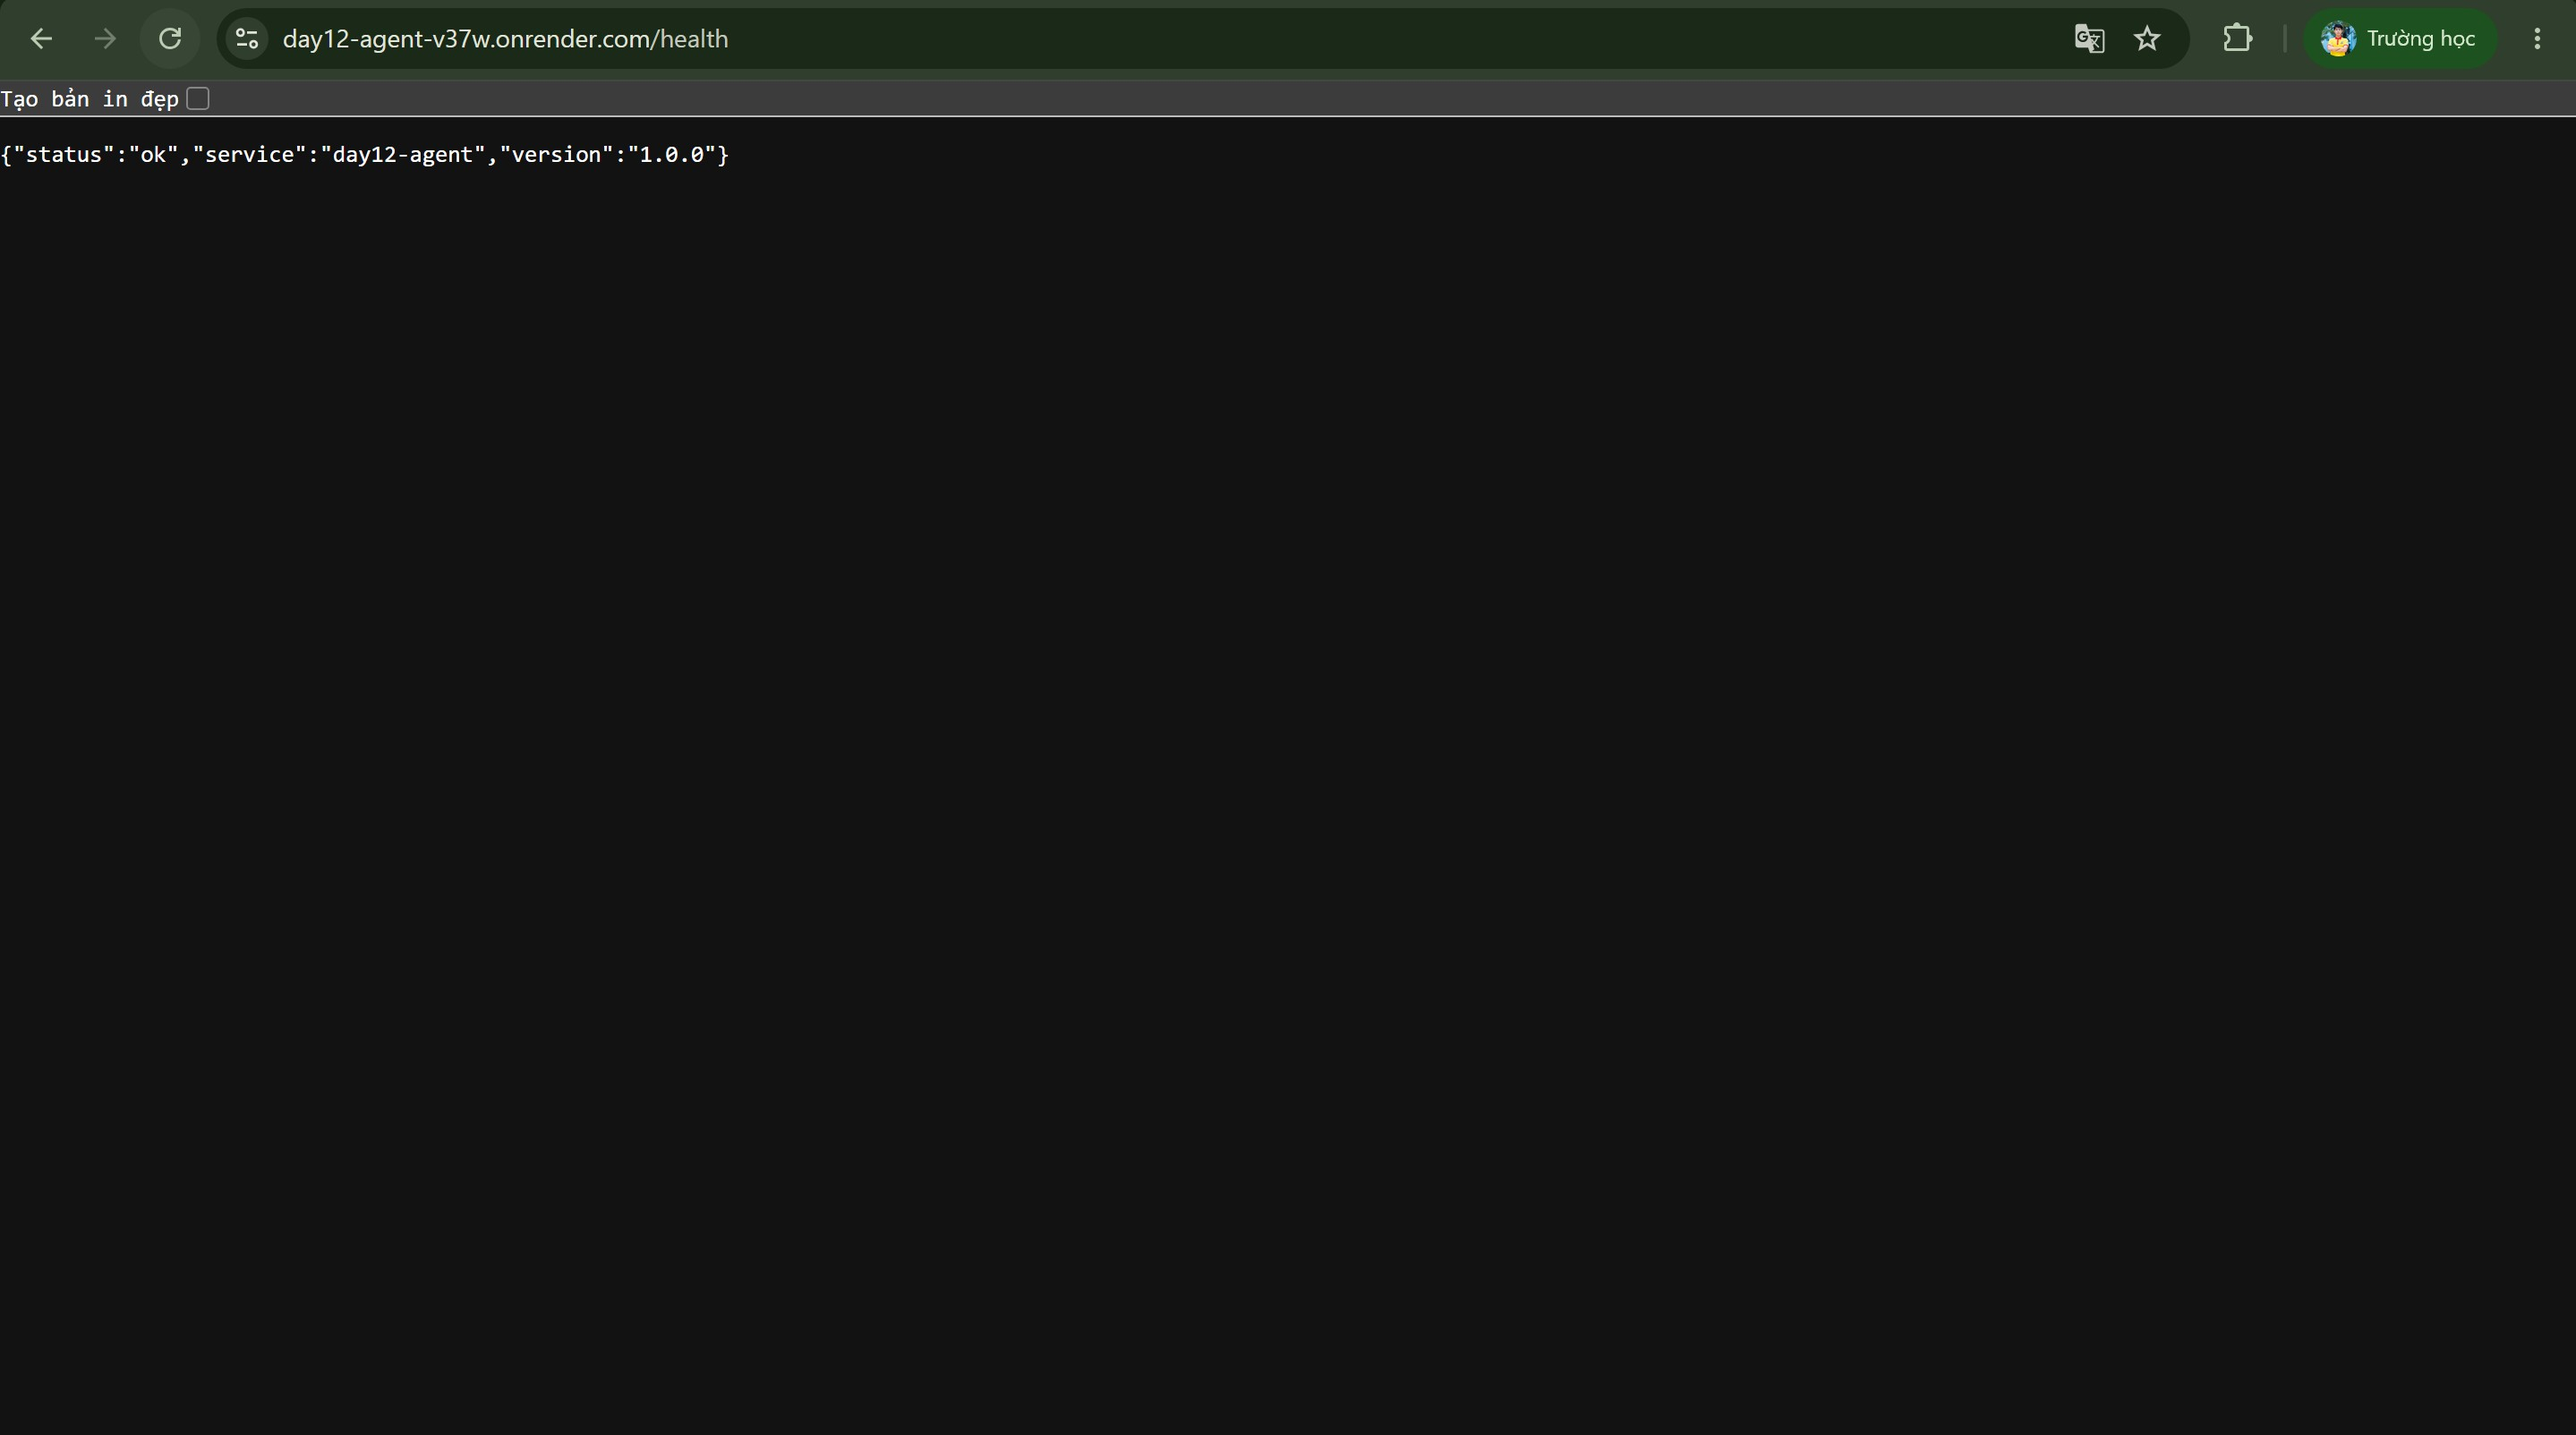
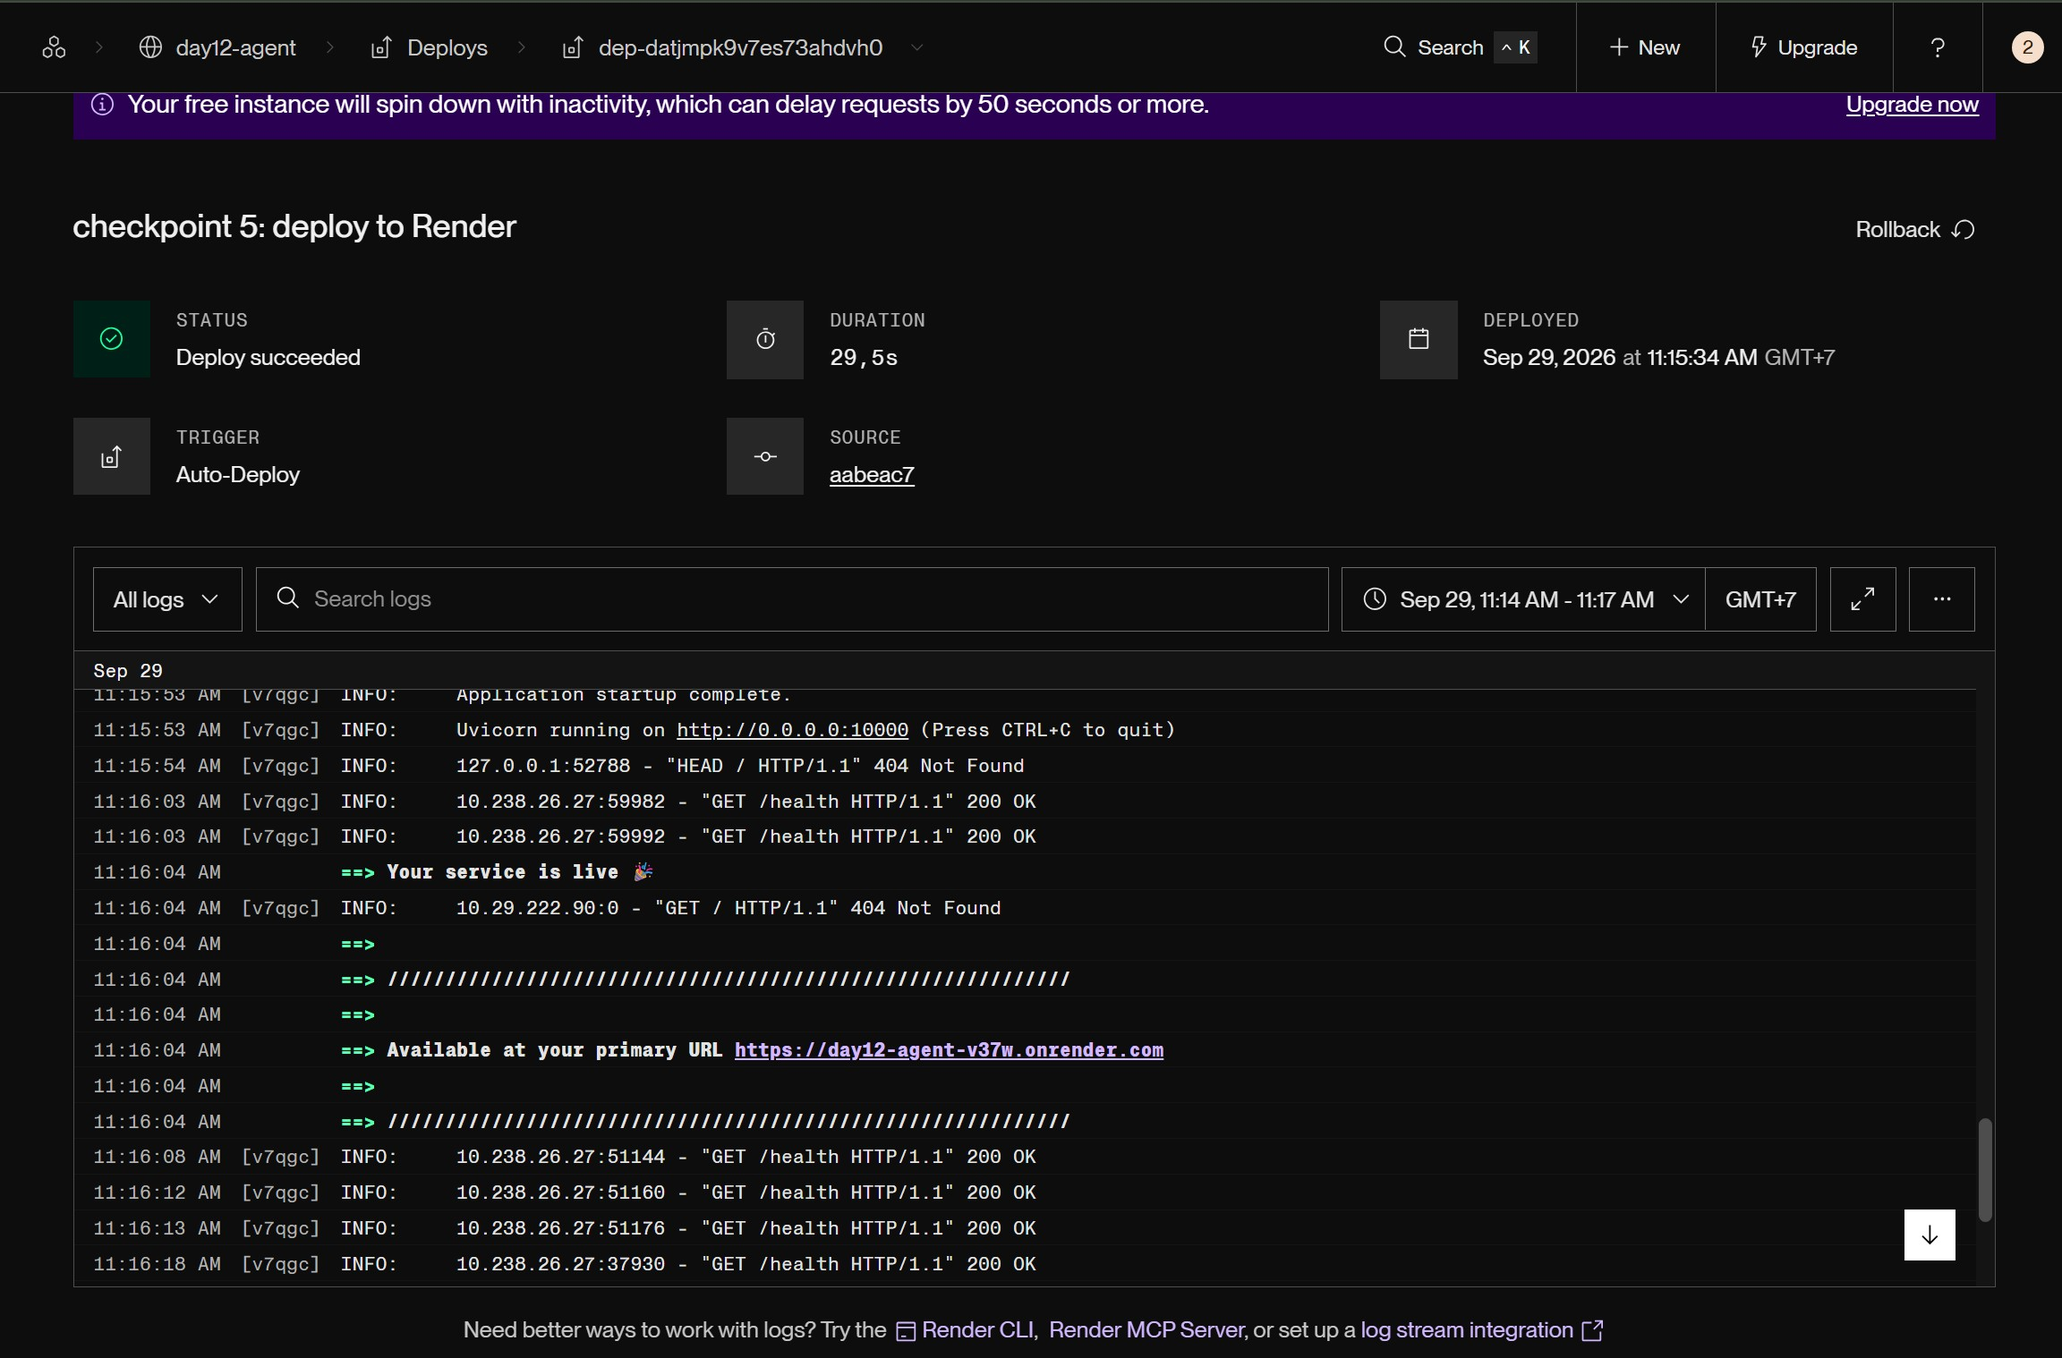
Update deployment screenshots

diff --git a/DEPLOYMENT.md b/DEPLOYMENT.md
@@ -97,5 +97,5 @@ HTTP/1.1 200 OK
 
 Đặt ảnh trong thư mục `screenshots/`:
 
-- `screenshots/log.jpg` — log đã thành công
+- `screenshots/dashboard.jpg` — 2 image đã được deploy thành công
 - `screenshots/health.jpg` — kết quả gọi `/health` từ trình duyệt hoặc curl
